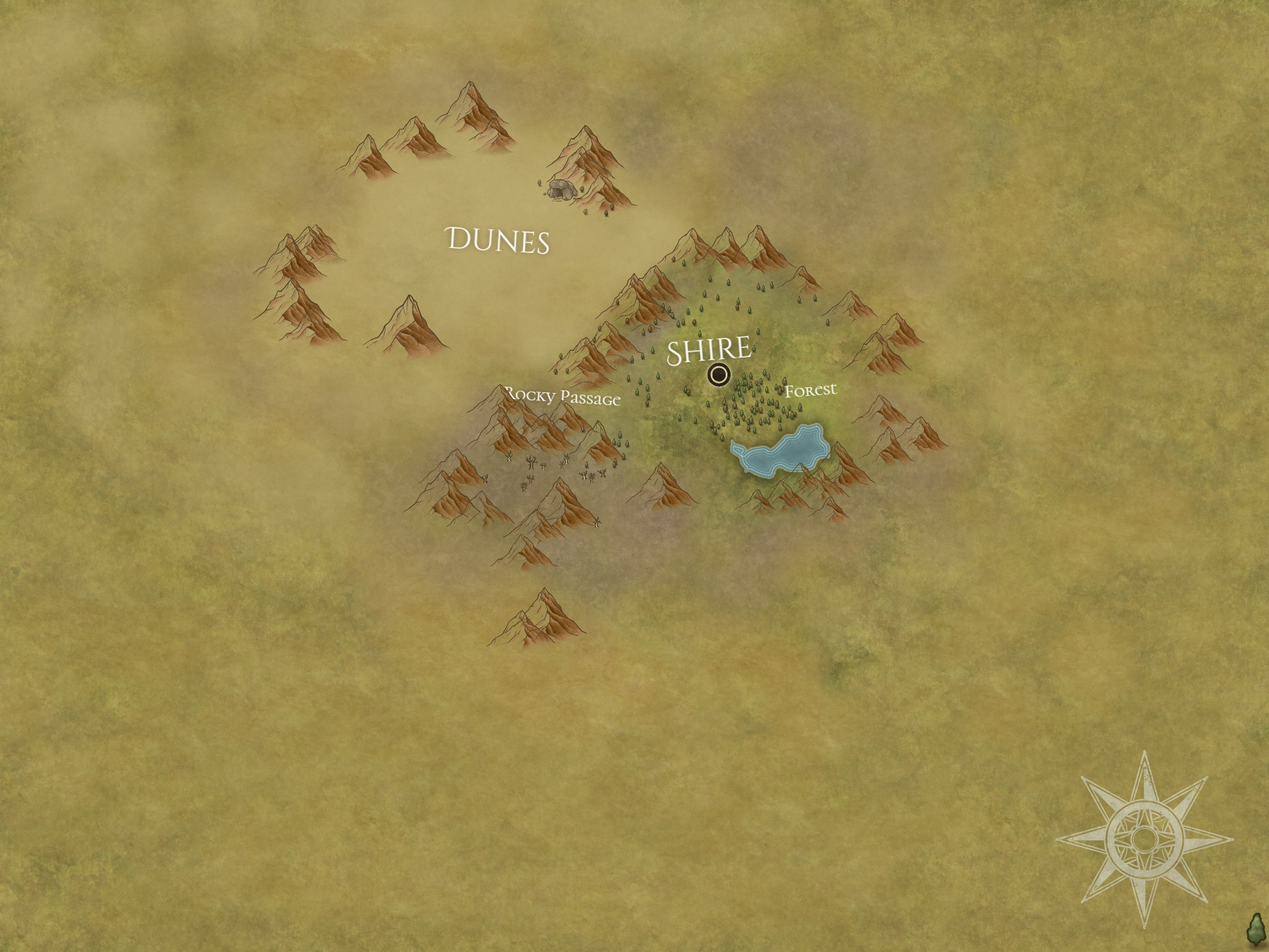
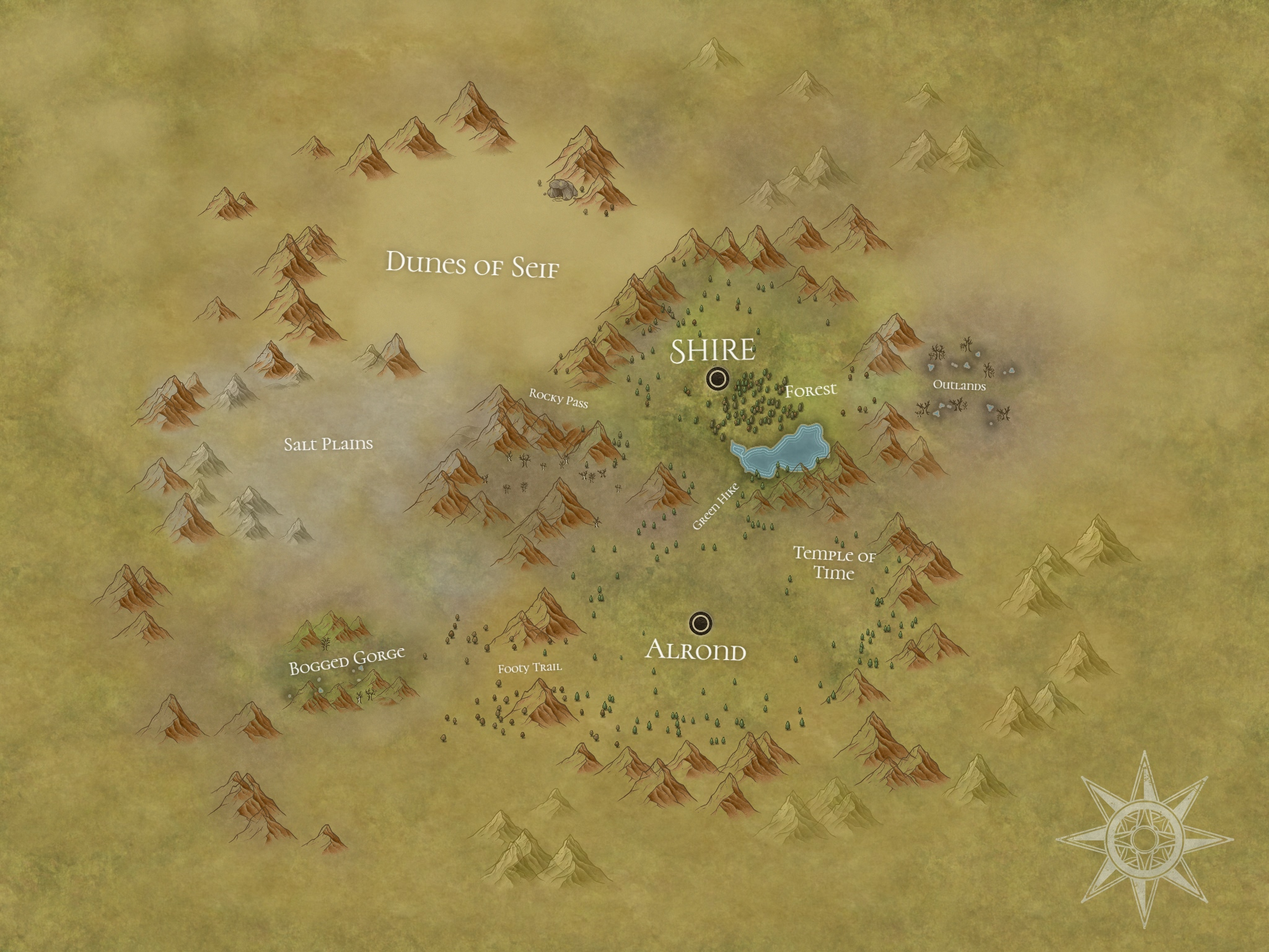
Rpg can go anywhere!

diff --git a/styles.css b/styles.css
@@ -33,6 +33,7 @@ body {
   user-select: none;
   background: black;
   background: url(https://cdnb.artstation.com/p/assets/images/images/025/914/673/4k/gaelle-seguillon-gaelle-seguillon-storm-peaks-2-6k.jpg?1587324674);
+  background: url(https://cdnb.artstation.com/p/assets/images/images/007/301/801/4k/jeff-chen-69.jpg?1505173103);
   background-position: center;
   background-size: cover;
   -webkit-backdrop-filter: blur(2px);
@@ -47,6 +48,7 @@ body {
 x-main-area {
   position: relative;
   background: url(https://cdnb.artstation.com/p/assets/images/images/025/914/673/4k/gaelle-seguillon-gaelle-seguillon-storm-peaks-2-6k.jpg?1587324674);
+  background: url(https://cdnb.artstation.com/p/assets/images/images/007/301/801/4k/jeff-chen-69.jpg?1505173103);
   background-position: center;
   background-size: cover;
   min-width: 300px;
@@ -370,6 +372,8 @@ x-window.persist {
   position: relative;
   top: 0;
   width: 100%;
+  width: calc(100% - 60px);
+  margin: 30px;
   height: 200px;
 }
 x-window.persist x-title-bar {
@@ -382,10 +386,10 @@ x-window.world-map {
   width: 350px;
 }
 x-window.world-map x-title-bar {
-  bbackground: url(img/titlebar.png);
-  bbackground: url(https://www.textures.com/system/gallery/photos/Wood/Planks/Old%20Planks/114867/WoodPlanksOld0024_5_download600.jpg);
-  bbackground-size: 100%;
-  background-position: 0 -2px;
+  background: url(img/bronze.png);
+  bbackground: url(https://www.textures.com/system/gallery/photos/Wood/Planks/Old%20Planks/122436/WoodPlanksOld0304_1_download600.jpg);
+  background-size: 100%;
+  bbackground-position: 0 -2px;
 }
 x-window.world-map x-window-content {
   hheight: 300px;
@@ -396,6 +400,7 @@ x-window x-title-bar {
   background: rgba(124, 124, 124, 0.8);
   border: 2px outset #ffffffa8;
   border-radius: 3px 3px 0 0;
+  text-shadow: 0px 0px 10px black;
   display: flex;
 }
 x-window x-title-bar.dragging {
@@ -408,8 +413,7 @@ x-window x-title-bar.dragging x-title {
 x-window x-title-bar x-title-bar-inner {
   width: 100%;
   border-radius: 3px;
-  background: rgba(37, 50, 70, 0.6);
-  text-shadow: 0px 0px 8px black;
+  background: rgba(42, 54, 75, 0.5);
   display: flex;
 }
 x-window x-title-bar x-title-bar-inner x-title {
@@ -417,22 +421,23 @@ x-window x-title-bar x-title-bar-inner x-title {
   width: 100%;
   border: 2px outset rgba(255, 255, 255, 0.5);
   border-radius: 3px;
-  box-shadow: inset 0 0 8px #000000ba;
+  box-shadow: inset 0 0 6px #000000;
   display: flex;
   justify-content: center;
   align-items: center;
 }
 x-window x-title-bar x-title-bar-inner x-button {
   cursor: pointer;
-  ffont-weight: bold;
-  wwidth: 28px;
-  height: 28px;
+  font-weight: bold;
+  width: 18px;
+  height: 30px;
   color: #322626;
   border: 1px solid #5c4e4e;
   border-radius: 4px;
-  background: linear-gradient(180deg, rgba(255, 255, 255, 0) 0%, rgba(150, 150, 150, 0.5) 100%);
+  background: linear-gradient(180deg, rgba(255, 255, 255, 0) 0%, rgba(150, 150, 150, 0.8) 100%);
   box-shadow: inset 0 0 1px #371a1ad9;
-  /* box-shadow: inset 0 0 10px #371a1ad9; */
+  box-shadow: 0 0 3px #362a2a;
+  /* margin: 1px; */
   display: flex;
 }
 x-window x-title-bar x-title-bar-inner x-button x-button-inner {
@@ -493,7 +498,7 @@ x-window x-window-content x-world-map {
   border: 2px solid rgba(255, 255, 255, 0.05);
   box-sizing: border-box;
   width: 100%;
-  height: 300px;
+  height: 400px;
   position: relative;
   overflow: scroll;
 }

diff --git a/styles.less b/styles.less
@@ -8,6 +8,7 @@ body {
 	user-select: none;
 	background: black;
 	background: url(https://cdnb.artstation.com/p/assets/images/images/025/914/673/4k/gaelle-seguillon-gaelle-seguillon-storm-peaks-2-6k.jpg?1587324674);
+	background: url(https://cdnb.artstation.com/p/assets/images/images/007/301/801/4k/jeff-chen-69.jpg?1505173103);
 	background-position: center;
 	background-size: cover;
 	-webkit-backdrop-filter: blur(2px);
@@ -23,6 +24,8 @@ body {
 x-main-area {
 	position: relative;
 	background: url(https://cdnb.artstation.com/p/assets/images/images/025/914/673/4k/gaelle-seguillon-gaelle-seguillon-storm-peaks-2-6k.jpg?1587324674);
+	background: url(https://cdnb.artstation.com/p/assets/images/images/007/301/801/4k/jeff-chen-69.jpg?1505173103);
+	
 	background-position: center;
 	background-size: cover;
 	min-width: 300px;
@@ -397,6 +400,8 @@ x-window {
 		position: relative;
 		top: 0;
 		width: 100%;
+		width: calc(100% - 60px);
+		margin: 30px;
 		height: 200px;
 
 		x-title-bar {
@@ -414,10 +419,10 @@ x-window {
 		width: 350px;
 		
 		x-title-bar {
-			bbackground: url(img/titlebar.png);
-			bbackground: url(https://www.textures.com/system/gallery/photos/Wood/Planks/Old%20Planks/114867/WoodPlanksOld0024_5_download600.jpg);
-			bbackground-size: 100%;
-			background-position: 0 -2px;
+			background: url(img/bronze.png);
+			bbackground: url(https://www.textures.com/system/gallery/photos/Wood/Planks/Old%20Planks/122436/WoodPlanksOld0304_1_download600.jpg);
+			background-size: 100%;
+			bbackground-position: 0 -2px;
 		}
 		
 		x-window-content {
@@ -431,6 +436,7 @@ x-window {
 		background: rgb(124 124 124 / 80%);
 		border: 2px outset #ffffffa8;
 		border-radius: 3px 3px 0 0;
+		text-shadow: 0px 0px 10px black;
 		display: flex;
 
 		&.dragging {
@@ -445,8 +451,7 @@ x-window {
 		x-title-bar-inner {
 			width: 100%;
 			border-radius: 3px;
-			background: rgba(37, 50, 70, 0.6);
-			text-shadow: 0px 0px 8px black;
+			background: rgb(42 54 75 / 50%);
 			display: flex;
 
 			x-title {
@@ -454,7 +459,7 @@ x-window {
 				width: 100%;
 				border: 2px outset rgb(255 255 255 / 50%);
 				border-radius: 3px;
-				box-shadow: inset 0 0 8px #000000ba;
+				box-shadow: inset 0 0 6px #000000;
 				display: flex;
 				justify-content: center;
 				align-items: center;
@@ -462,15 +467,16 @@ x-window {
 
 			x-button {
 				cursor: pointer;
-				ffont-weight: bold;
-				wwidth: 28px;
-				height: 28px;
+				font-weight: bold;
+				width: 18px;
+				height: 30px;
 				color: #322626;
 				border: 1px solid #5c4e4e;
 				border-radius: 4px;
-				background: linear-gradient(180deg, rgba(255, 255, 255, 0) 0%, rgba(150, 150, 150, 0.5) 100%);
+				background: linear-gradient(180deg, rgba(255, 255, 255, 0) 0%, rgba(150, 150, 150, 0.8) 100%);
 				box-shadow: inset 0 0 1px #371a1ad9;
-				/* box-shadow: inset 0 0 10px #371a1ad9; */
+				box-shadow: 0 0 3px #362a2a;
+				/* margin: 1px; */
 				display: flex;
 
 				x-button-inner {
@@ -542,7 +548,7 @@ x-window {
 			border: 2px solid rgb(255 255 255 / 5%);
 			box-sizing: border-box;
 			width: 100%;
-			height: 300px;
+			height: 400px;
 			position: relative;
 			overflow: scroll;
 

diff --git a/bundle.js b/bundle.js
@@ -471,10 +471,17 @@ var rpg = (function () {
         regions: [
             //[[300, 300], [2048 - 500, 1536 - 600], 'Desert'],
             //[[700, 346], [2048 - 500, 1536 - 600], 'Desert'],
-            [[707, 346], [900, 434], 'Desert'],
-            [[1071, 538], [1222, 609], 'Shire'],
-            [[1257, 613], [1560, 646], 'Forest'],
-            [[809, 616], [1007, 663], 'Rocky Passage'],
+            [[1077, 545], [1219, 588], 'Shire'],
+            [[1260, 616], [1352, 642], 'Forest'],
+            [[1505, 612], [1591, 631], 'Outlands'],
+            [[603, 403], [905, 450], 'Dunes of Seif'],
+            [[853, 625], [949, 660], 'Rocky Passage'],
+            [[459, 706], [603, 728], 'Salt Plains'],
+            [[1118, 779], [1194, 856], 'Green Hike'],
+            [[1039, 1029], [1205, 1069], 'Alrond'],
+            [[1279, 879], [1415, 936], 'Temple of Time'],
+            [[801, 1068], [908, 1087], 'Footy Trail'],
+            [[465, 1044], [655, 1090], 'Bogged Gorge'],
         ]
     };
     const map_size = [2048, 1536];
@@ -599,8 +606,11 @@ var rpg = (function () {
             this.create();
         }
         create() {
+            const shrink_grow = 10;
             this.el = document.createElement('x-region');
             let aabb = new aabb2(this.tuple[0], this.tuple[1]);
+            aabb.min = pts.add(aabb.min, [-shrink_grow, -shrink_grow]);
+            aabb.max = pts.add(aabb.max, [shrink_grow, shrink_grow]);
             const diag = pts.divide(aabb.diagonal(), map_division);
             const min = pts.divide(aabb.min, map_division);
             const map_size_scaled = pts.divide(map_size, map_division);
@@ -612,8 +622,8 @@ var rpg = (function () {
             this.el.style.backgroundPositionY = `-${min[1]}px`;
             this.el.style.backgroundSize = `${map_size_scaled[0]}px ${map_size_scaled[1]}px`;
             this.el.onclick = () => {
-                this.select();
                 this.friend.selectedLabel?.unselect();
+                this.select();
                 this.friend.selectedLabel = this;
                 this.friend.x_text.innerHTML = `Selected: ${this.tuple[2]}`;
             };

diff --git a/js/world map.js b/js/world map.js
@@ -8,10 +8,17 @@ var green = {
     regions: [
         //[[300, 300], [2048 - 500, 1536 - 600], 'Desert'],
         //[[700, 346], [2048 - 500, 1536 - 600], 'Desert'],
-        [[707, 346], [900, 434], 'Desert'],
-        [[1071, 538], [1222, 609], 'Shire'],
-        [[1257, 613], [1560, 646], 'Forest'],
-        [[809, 616], [1007, 663], 'Rocky Passage'],
+        [[1077, 545], [1219, 588], 'Shire'],
+        [[1260, 616], [1352, 642], 'Forest'],
+        [[1505, 612], [1591, 631], 'Outlands'],
+        [[603, 403], [905, 450], 'Dunes of Seif'],
+        [[853, 625], [949, 660], 'Rocky Passage'],
+        [[459, 706], [603, 728], 'Salt Plains'],
+        [[1118, 779], [1194, 856], 'Green Hike'],
+        [[1039, 1029], [1205, 1069], 'Alrond'],
+        [[1279, 879], [1415, 936], 'Temple of Time'],
+        [[801, 1068], [908, 1087], 'Footy Trail'],
+        [[465, 1044], [655, 1090], 'Bogged Gorge'],
     ]
 };
 const map_size = [2048, 1536];
@@ -136,8 +143,11 @@ class label {
         this.create();
     }
     create() {
+        const shrink_grow = 10;
         this.el = document.createElement('x-region');
         let aabb = new aabb2(this.tuple[0], this.tuple[1]);
+        aabb.min = pts.add(aabb.min, [-shrink_grow, -shrink_grow]);
+        aabb.max = pts.add(aabb.max, [shrink_grow, shrink_grow]);
         const diag = pts.divide(aabb.diagonal(), map_division);
         const min = pts.divide(aabb.min, map_division);
         const map_size_scaled = pts.divide(map_size, map_division);
@@ -149,8 +159,8 @@ class label {
         this.el.style.backgroundPositionY = `-${min[1]}px`;
         this.el.style.backgroundSize = `${map_size_scaled[0]}px ${map_size_scaled[1]}px`;
         this.el.onclick = () => {
-            this.select();
             this.friend.selectedLabel?.unselect();
+            this.select();
             this.friend.selectedLabel = this;
             this.friend.x_text.innerHTML = `Selected: ${this.tuple[2]}`;
         };

diff --git a/src/world map.ts b/src/world map.ts
@@ -15,10 +15,17 @@ var green: map = {
 	regions: [
 		//[[300, 300], [2048 - 500, 1536 - 600], 'Desert'],
 		//[[700, 346], [2048 - 500, 1536 - 600], 'Desert'],
-		[[707, 346], [900, 434], 'Desert'],
-		[[1071, 538], [1222, 609], 'Shire'],
-		[[1257, 613], [1560, 646], 'Forest'],
-		[[809, 616], [1007, 663], 'Rocky Passage'],
+		[[1077, 545], [1219, 588], 'Shire'],
+		[[1260, 616], [1352, 642], 'Forest'],
+		[[1505, 612], [1591, 631], 'Outlands'],
+		[[603, 403], [905, 450], 'Dunes of Seif'],
+		[[853, 625], [949, 660], 'Rocky Passage'],
+		[[459, 706], [603, 728], 'Salt Plains'],
+		[[1118, 779], [1194, 856], 'Green Hike'],
+		[[1039, 1029], [1205, 1069], 'Alrond'],
+		[[1279, 879], [1415, 936], 'Temple of Time'],
+		[[801, 1068], [908, 1087], 'Footy Trail'],
+		[[465, 1044], [655, 1090], 'Bogged Gorge'],
 	]
 }
 
@@ -152,8 +159,11 @@ class label {
 		this.create();
 	}
 	create() {
+		const shrink_grow = 10;
 		this.el = document.createElement('x-region');
 		let aabb = new aabb2(this.tuple[0], this.tuple[1]);
+		aabb.min = pts.add(aabb.min, [-shrink_grow, -shrink_grow]);
+		aabb.max = pts.add(aabb.max, [shrink_grow, shrink_grow]);
 		const diag = pts.divide(aabb.diagonal(), map_division);
 		const min = pts.divide(aabb.min, map_division);
 		const map_size_scaled = pts.divide(map_size, map_division);
@@ -166,8 +176,8 @@ class label {
 		this.el.style.backgroundSize = `${map_size_scaled[0]}px ${map_size_scaled[1]}px`;
 
 		this.el.onclick = () => {
-			this.select();
 			this.friend.selectedLabel?.unselect();
+			this.select();
 			this.friend.selectedLabel = this;
 			this.friend.x_text.innerHTML = `Selected: ${this.tuple[2]}`;
 		}

diff --git a/index.html b/index.html
@@ -52,20 +52,17 @@
 				</x-title-bar>
 				<x-window-content>
 					<x-window-content-inner>
-						A console / log of stuff that the player does?
+						You're at location { location }.
 					</x-window-content-inner>
 				</x-window-content>
 			</x-window>
 		</x-top-area>
 
+		<!--
 		<x-dialog>
-			<!--<x-title>
-				Message
-			</x-title>-->
 			<x-text>
 				Traveling east-wards, you approach an old monastery.
 			</x-text>
-			<!-- <x-divider></x-divider> -->
 			<x-buttons-area>
 				<x-button-wood>
 					<x-button-wood-outer>
@@ -84,6 +81,7 @@
 				</x-button-wood>
 			</x-buttons-area>
 		</x-dialog>
+		-->
 
 		<!--
 		<x-window>
